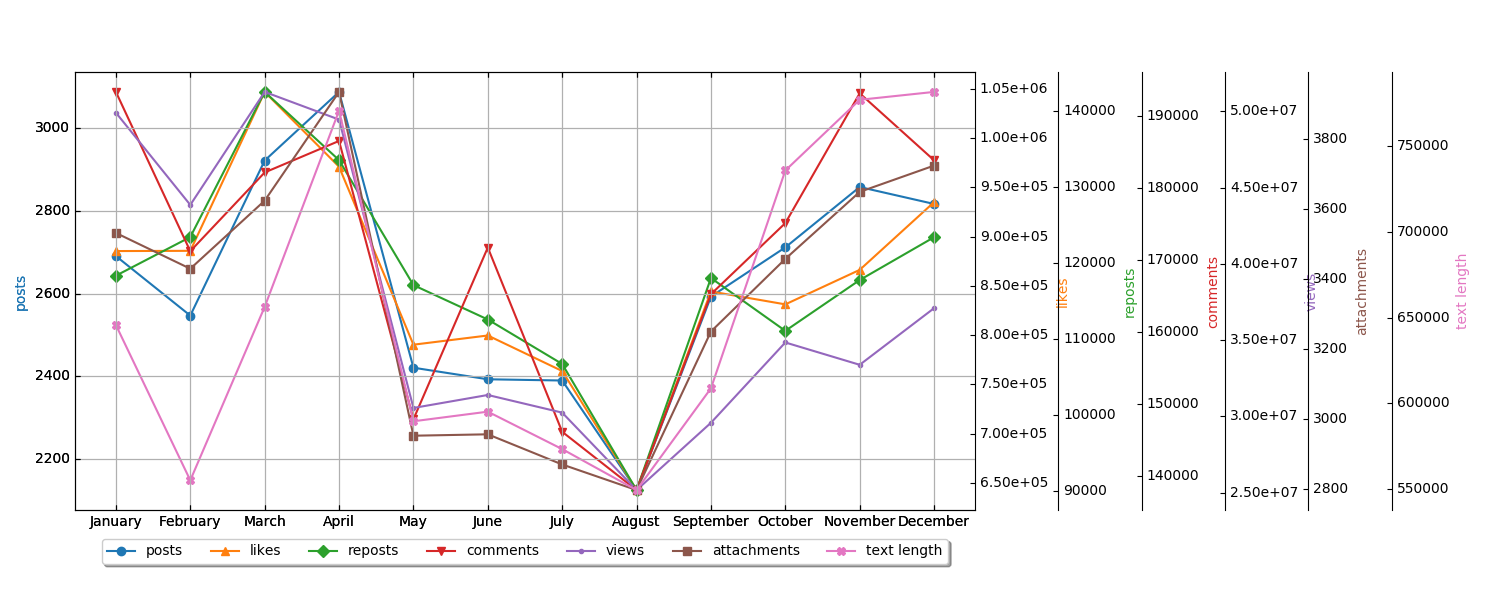
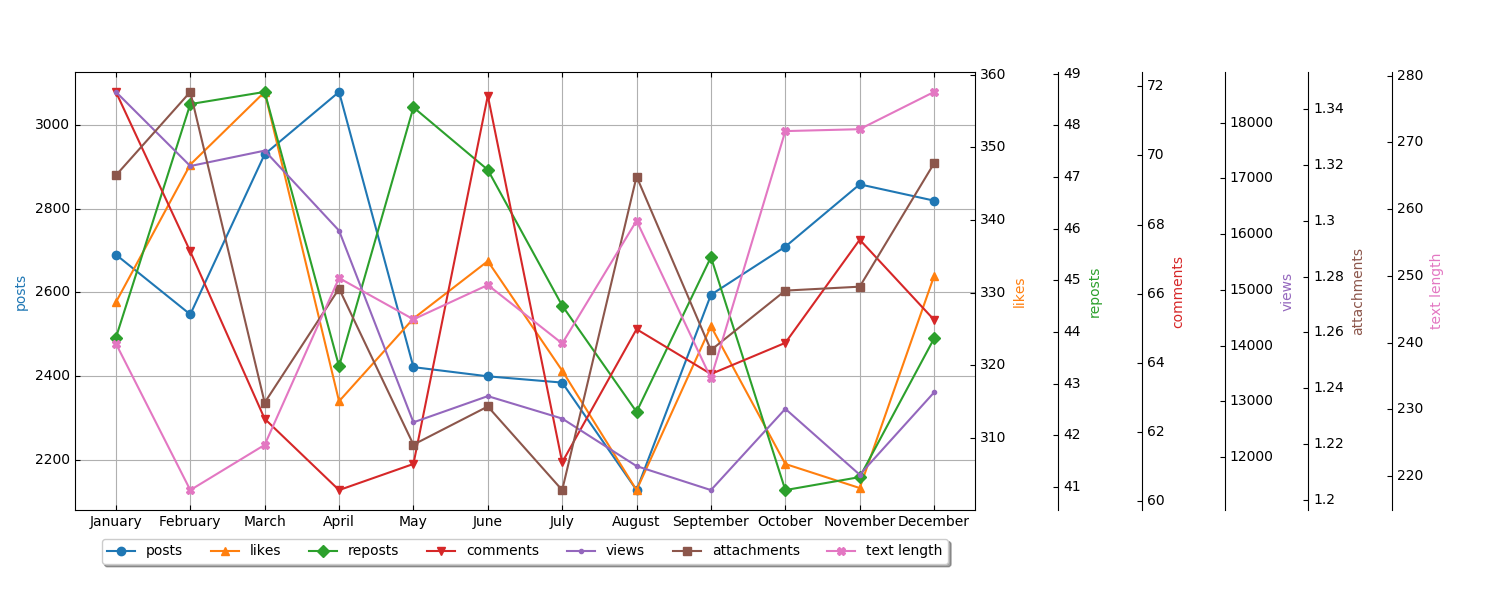
plots now show average values

diff --git a/timing.py b/timing.py
@@ -23,19 +23,19 @@ def draw_subplot(host, fixed_axis, x_range, y, offset, label, marker='o'):
     par.axis["right"] = fixed_axis(loc="right", axes=par, offset=(offset, 0))
     par.set_ylabel(label)
     par.get_yaxis().set_major_formatter(ticker.FuncFormatter(
-        lambda x, p: str(int(x)) if max(y) < 1e6 else '{:.2e}'.format(float(x))))
+        lambda x, p: str.format("%g" % x) if max(y) < 1e6 else '{:.2e}'.format(float(x))))
     p, = par.plot(x_range, y, marker=marker, label=label)
     par.axis["right"].label.set_color(p.get_color())
 
 def get_dateposts(name, data, data_range, autolocator=False):
     x = data_range
     y1 = [posts_count(data, str(i)) for i in x] #posts
-    y2 = [get_count(data, str(i), 1) for i in x] #likes
-    y3 = [get_count(data, str(i), 2) for i in x] #reposts
-    y4 = [get_count(data, str(i), 3) for i in x] #comments
-    y5 = [get_count(data, str(i), 4) for i in x] #views
-    y6 = [get_count(data, str(i), 5) for i in x] #attachments
-    y7 = [get_count(data, str(i), 6) for i in x] #text length
+    y2 = [get_average(data, str(i), 1) for i in x] #likes
+    y3 = [get_average(data, str(i), 2) for i in x] #reposts
+    y4 = [get_average(data, str(i), 3) for i in x] #comments
+    y5 = [get_average(data, str(i), 4) for i in x] #views
+    y6 = [get_average(data, str(i), 5) for i in x] #attachments
+    y7 = [get_average(data, str(i), 6) for i in x] #text length
 
     host = host_subplot(111, axes_class=AA.Axes)
     plt.subplots_adjust(right=0.65, bottom=0.15, left=0.05)
@@ -77,9 +77,9 @@ def posts_count(data, value):
         return len(data[value])
     return 0
 
-def get_count(data, value, index):
+def get_average(data, value, index):
     if value in data:
-        return sum([x[index] for x in data[value]])
+        return sum([x[index] for x in data[value]])/len(data[value])
     return 0
 
 def datalist_to_dict(data, converter):

diff --git a/examples/BrutalEngineer.md b/examples/BrutalEngineer.md
@@ -151,7 +151,7 @@
 
 Занятно то, что из всех топовых постов пересечения есть только у репостов и лайков, т.е. большинство лайков и репостов имеют одни и теже посты.
 
-Комментируют чаще всего не то, что нравится, а то, что вызывает противоположные мнения, и может служить поводом для ~~дискуссий~~ срачей. Самые длинные тексты вполне ожидаемо тоже реже лайкают, репостят и комментируют.
+Комментируют чаще всего не то, что нравится, а то, что вызывает противоположные мнения, и может служить поводом для дискуссий. Самые длинные тексты вполне ожидаемо тоже реже лайкают, репостят и комментируют.
 
 ## Записи без лайков и т.п.
 
@@ -161,7 +161,7 @@
 - 1173 без репостов;
 - 396 постов остались без комментариев;
 - 3980 записей без вложений;
-- 6157 постов с вложениями без какого-либо текста.
+- 6157 постов с вложениями без какого-либо текста (снова привет твиттеру).
 
 ## Информация об авторах
 
@@ -197,17 +197,17 @@
 - 769 опросов;
 - и 13064 видеозаписей.
 
-Я ожидал, что видео будет больше, чем картинок, но ошибся. Думаю, перевес картинок связан с тем, что их обычно прикрепляют по несколько к посту, а видео - по одному. Ну или видео стало много в последнее время, а раньше было поменьше.
+Я ожидал, что видео будет больше, чем картинок, но ошибся. Думаю, перевес картинок связан с тем, что их обычно прикрепляют по несколько к посту, а видео - по одному. Или видео стало много в последнее время, а раньше было поменьше.
 
 ## Опросы
 
 Опросы в Суртехе - вещь в себе. Интересно посмотреть статистику по ним.
 
-Всего было проведено 769 опросов, в которых отдано почти 5 миллионов (!) голосов. В среднем в каждом опросе 6460 участников. Медианное значение чуть меньше - 5745 голосов.
+Всего было проведено 769 опросов, в которых отдано почти 5 миллионов (!) голосов. В среднем в каждом опросе было 6460 участников. Медианное значение чуть меньше - 5745 голосов.
 
 ### Топ опросов
 
-Всего 126 опросов, в которых проголосовало больше 10000 человек. Топ-10 выглядит так:
+Всего было 126 опросов, в которых проголосовало больше 10000 человек. Топ-10 выглядит так:
 
 | URL                                  | Votes | 
 |--------------------------------------|-------| 
@@ -224,7 +224,7 @@
 
 Первое место заняла уже упоминавшаяся задача про значение выражения 6/2(1+2). 30771 голос
 
-Второе - да, вы правы, опрос на тему "взлетит или не взлетит". 25785 голосов
+Второе - вполне ожидаемо опрос на тему "взлетит или не взлетит". 25785 голосов
 
 Третье - что лучше во время войны - массовость или качество вооружения. 20076 голосов
 
@@ -300,9 +300,9 @@
 | 2019 | 0.005*"суровый", 0.003*"работа", 0.003*"https", 0.002*"2", 0.002*"свой", 0.002*"1", 0.002*"вопрос", 0.002*"технарь", 0.002*"наука", 0.002*"самый" |
 | Общее за весь период | 0.003*"brutalengy", 0.003*"работа", 0.003*"свой", 0.003*"2", 0.003*"1", 0.003*"вопрос", 0.002*"система", 0.002*"двигатель", 0.002*"технарь", 0.002*"суровый" |
 
-В 2011 Суровый Технарь интересовался процессом, материалами, сваркой, текучестью, пределом и штамповкой. А еще в 2011 возникло восхитительно сочетание тем - "технарь самый суровый пацан".
+В 2011 Суровый Технарь интересовался процессом, материалами, сваркой, текучестью, пределом и штамповкой. А еще здесь случайно возникло восхитительное сочетание тем - "технарь самый суровый пацан".
 
-В 2012 появлились теги brutalengy, юмор и madskillz. Стали обсуждать работу, инженеров, двигатели и самолеты.
+В 2012 появлились теги brutalengy, humor и madskillz. Стали обсуждать работу, инженеров, двигатели и самолеты.
 
 В 2013 инженеры ушли, но появились проекты, ссылки (http) и номенклатура изделий. Самолеты стали выше.
 
@@ -314,6 +314,28 @@
 
 ## Графики
 
-Напоследок несколько любопытных графиков, показывающих параметры по годам, кварталам, месяцам, дням недели и часам:
+Напоследок несколько любопытных графиков, показывающих параметры по годам, кварталам, месяцам, дням недели и часам. На графиках представлено количество постов и средние данные по ним - лайки, репосты, комментарии, вложения, просмотры и длина текста.
 
-<!-- ![Года](years.png) -->
+![Года](years.png)
+
+Год от года количество постов росло (снижение в 2019 естественно, статья писалась, когда год еще не завершился), а вот среднее количество лайков и комментариев достигло пика в 2013, после чего снижалось. Аналогичная ситуация с репостами, но их пик пришелся на 2012. У средней длины текстов два пика - 2013 и 2016-2017. Количество вложений было минимальным в 2012, а после росло с небольшим спадом в 2018. Просмотры в вк появились в 2017 году, в Суртехе они держались более-менее ровно.
+
+Поквартальный график в целом повторяет предыдущий, что неудивительно, поскольку он является более точным измерением:
+
+![Кварталы](quarters.png)
+
+Данные по месяцам:
+
+![Месяца](months.png)
+
+Сразу бросаются в глаза два пика по комментированию - удивительно, но больше всего комментируют в январе и июне. В феврале, марте и мае больше всего репостов. Апрель лидирует по количеству постов. С июля по сентябрь народ отдыхает и проявляет минимальную активность. Вложений больше всего в августе и декабре. А средняя длина текстов растет к концу года и достигает пика в декабре.
+
+<!-- Данные по дням недели:
+
+![Дни недели](weekdays.png)
+
+Данные по часам:
+
+![Часы](hours.png) -->
+
+Анализируя графики, не стоит забывать, что  ось Y на них начинается не с нуля. Разница между верхним и нижним значением может составлять пару процентов, в то время как на графике это будет выглядеть как разница на порядок.
